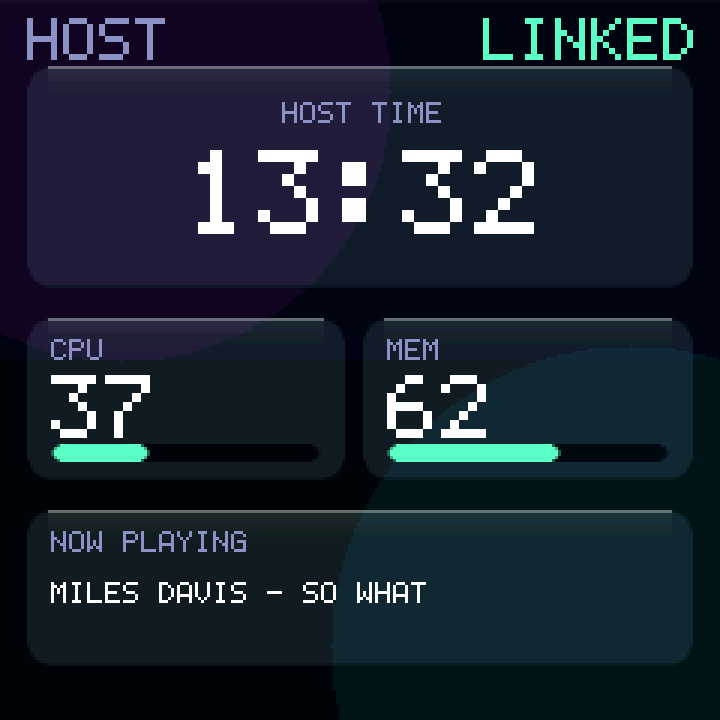
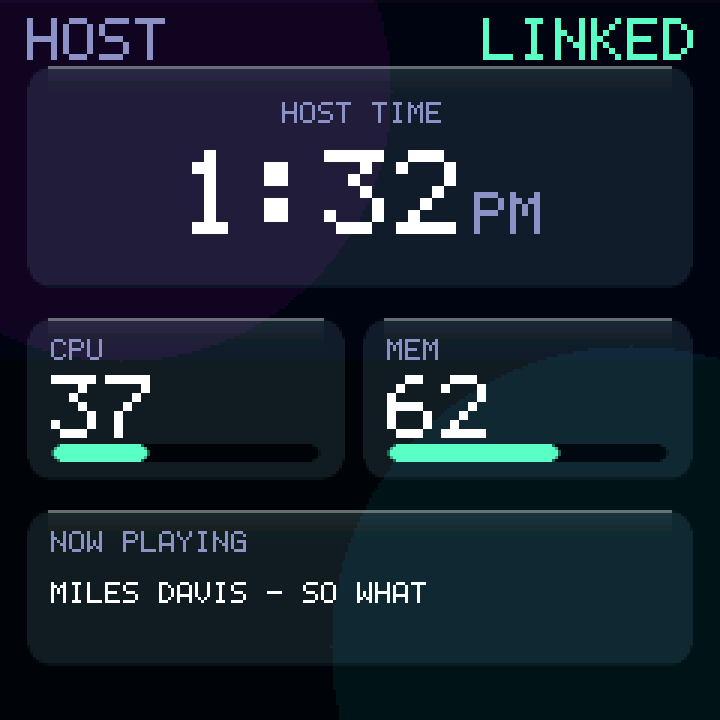
feat: 12-hour host clock with AM/PM, and a companion that needs no installs
The clock was 24 hour and not negotiable. It is 12 hour with AM or PM now,
which is what most desk clocks show, and CONFIG_NEXUS_HOST_CLOCK_24H switches
back. Drawing only: the companion sends seconds since local midnight either
way, so the format changes with no companion change and nothing to reflash on
the host.

The numerals stay NEXUS_TXT_BIG and the suffix is body size on their baseline.
At the same size AM/PM would be as loud as the hour, which is the wrong way
round - you read the time and glance at which half of the day it is. Padding
follows the face: zero-padded on 24 hour so the colon never moves, unpadded on
12 hour, because "01:32 PM" is not what a clock says.

Midnight and noon read as 12, not 0. That is the bug every 12 hour clock ships
once, so the test pins 00:00, 00:01, 11:59, 12:00, 13:32 and 23:59 in both
formats.

Also adds a PowerShell companion beside the Python one. The machine this was
developed against had neither pyserial nor psutil, and Windows can read CPU,
memory and the clock natively - a companion you have to install things for is
a companion you run once. It finds the dongle by ZMK's USB id, writes to every
NEXUS serial interface (one is the host link, the other is Studio's and
ignores what it cannot parse), and says X on the way out so the screen drops
to dashes rather than keeping numbers that stopped being true.

Now-playing is deliberately empty there rather than guessed: Windows has no
[…]

diff --git a/tests/host/test_host_link.py b/tests/host/test_host_link.py
@@ -148,6 +148,47 @@ def main():
        "the screen refreshes at NORMAL - IDLE's one-second coalesce would "
        'make a ticking clock look stuck')
 
+    print('\nThe clock')
+    kc = read('Kconfig').split('config NEXUS_HOST_CLOCK_24H')[1]
+    kc = kc.split('\nconfig ')[0]
+    ok('default n' in kc, '12 hour with AM/PM is the default, 24 hour is opt in')
+    clock = s.split('static void draw_clock')[1].split('\n}\n')[0]
+    ok('IS_ENABLED(CONFIG_NEXUS_HOST_CLOCK_24H)' in clock,
+       'and the format is a build option, not a hard-coded one')
+
+    def face(sec, h24):
+        """Mirrors draw_clock(): the numerals, and the suffix or None."""
+        hour, minute = sec // 3600, (sec % 3600) // 60
+        if h24:
+            return '%02d:%02d' % (hour, minute), None
+        suffix = 'AM' if hour < 12 else 'PM'
+        hour %= 12
+        return '%d:%02d' % (hour or 12, minute), suffix
+
+    for sec, want12, want24 in ((0, ('12:00', 'AM'), ('00:00', None)),
+                                (60, ('12:01', 'AM'), ('00:01', None)),
+                                (11 * 3600 + 59 * 60, ('11:59', 'AM'),
+                                 ('11:59', None)),
+                                (12 * 3600, ('12:00', 'PM'),
+                                 ('12:00', None)),
+                                (13 * 3600 + 32 * 60, ('1:32', 'PM'),
+                                 ('13:32', None)),
+                                (23 * 3600 + 59 * 60, ('11:59', 'PM'),
+                                 ('23:59', None))):
+        got = face(sec, False)
+        ok(got == want12, '%5ds -> %s %s' % (sec, got[0], got[1]))
+        ok(face(sec, True) == want24, '%5ds -> %s in 24 hour'
+           % (sec, want24[0]))
+
+    ok('hour = 12U' in clock,
+       'midnight and noon read as 12, never as 0 - the bug every 12 hour '
+       'clock ships once')
+    ok('suffix ? 0 : 2' in clock,
+       'padded on a 24 hour face so the colon never moves, unpadded on a 12 '
+       'hour one')
+    ok('NEXUS_TXT_BODY' in clock and 'gfx_text_h(NEXUS_TXT_BIG)' in clock,
+       'AM/PM is drawn smaller, on the numerals\' baseline')
+
     print('\nLayout fits the panel')
     K = {k: int(v) for k, v in
          re.findall(r'^#define (\w+_[YH]) (\d+)', s, re.M)}

diff --git a/src/ui/host_screen.c b/src/ui/host_screen.c
@@ -18,6 +18,7 @@
 #include <nexus/screen.h>
 #include <nexus/theme.h>
 #include <nexus/widgets.h>
+#include <zephyr/kernel.h>
 
 #include "../nexus_priv.h"
 
@@ -46,22 +47,51 @@ static void draw_clock(void)
 	}
 
 	/*
-	 * HH:MM as one string, padded, so the colon never moves. Seconds are
-	 * deliberately absent: they would repaint this card once a second
-	 * forever, which is the one thing a screen that sits idle must not do.
+	 * Seconds are deliberately absent: they would repaint this card once a
+	 * second forever, which is the one thing a screen that sits idle on a
+	 * desk must not do.
 	 */
+	uint32_t hour = sec / 3600U;
+	uint32_t min = (sec % 3600U) / 60U;
+	const char *suffix = NULL;
 	int n = 0;
 
-	gfx_utoa(sec / 3600U, buf, sizeof(buf), 2);
+	if (!IS_ENABLED(CONFIG_NEXUS_HOST_CLOCK_24H)) {
+		suffix = hour < 12U ? "AM" : "PM";
+		hour %= 12U;
+		if (hour == 0U) {
+			hour = 12U;   /* midnight and noon are 12, not 0 */
+		}
+	}
+
+	/* Padded on a 24 hour clock so the colon never moves; unpadded on a 12
+	 * hour one, because "01:32 PM" is not what a clock face says. */
+	gfx_utoa(hour, buf, sizeof(buf), suffix ? 0 : 2);
 	while (buf[n]) {
 		n++;
 	}
 	buf[n++] = ':';
-	gfx_utoa((sec % 3600U) / 60U, &buf[n], (int)sizeof(buf) - n, 2);
+	gfx_utoa(min, &buf[n], (int)sizeof(buf) - n, 2);
 
 	nexus_draw_caption_c(GFX_W / 2, CLOCK_Y + 12, "HOST TIME");
-	gfx_text_c(GFX_W / 2, CLOCK_Y + 28, buf, NEXUS_TXT_BIG, t->value,
-		   GFX_OPAQUE);
+
+	/*
+	 * The numerals big, AM/PM small beside them and sitting on their
+	 * baseline, the whole group centred. At NEXUS_TXT_BIG the suffix would
+	 * be as loud as the hour, which is the wrong way round - you read the
+	 * time, you glance at which half of the day it is.
+	 */
+	int tw = gfx_text_w(buf, NEXUS_TXT_BIG);
+	int sw = suffix ? gfx_text_w(suffix, NEXUS_TXT_BODY) + 6 : 0;
+	int x = GFX_W / 2 - (tw + sw) / 2;
+
+	gfx_text(x, CLOCK_Y + 28, buf, NEXUS_TXT_BIG, t->value, GFX_OPAQUE);
+	if (suffix) {
+		gfx_text(x + tw + 6,
+			 CLOCK_Y + 28 + gfx_text_h(NEXUS_TXT_BIG) -
+				 gfx_text_h(NEXUS_TXT_BODY),
+			 suffix, NEXUS_TXT_BODY, t->caption, GFX_OPAQUE);
+	}
 }
 
 static void draw_meter(int x, int w, const char *label, uint8_t pct)

diff --git a/scripts/render_ui.py b/scripts/render_ui.py
@@ -662,7 +662,7 @@ def host_meter(cv, t, x, w, label, pct):
             t['warning'] if pct >= 80 else t['accent'])
 
 
-def host(cv, t, link=True, clock='13:32', cpu=37, mem=62,
+def host(cv, t, link=True, clock='1:32', suffix='PM', cpu=37, mem=62,
          np='Miles Davis - So What'):
     """The HOST screen, with a companion connected. Mirrors host_screen.c."""
     u, K = UI(cv, t), HOST
@@ -678,7 +678,15 @@ def host(cv, t, link=True, clock='13:32', cpu=37, mem=62,
         cv.text_c(W // 2, K['CLOCK_Y'] + 36, '--:--', BIG, t['muted'])
     else:
         u.caption_c(W // 2, K['CLOCK_Y'] + 12, 'HOST TIME')
-        cv.text_c(W // 2, K['CLOCK_Y'] + 28, clock, BIG, t['value'])
+        # Numerals big, AM/PM small on their baseline, group centred.
+        tw = text_w(clock, BIG)
+        sw = text_w(suffix, BODY) + 6 if suffix else 0
+        x = W // 2 - (tw + sw) // 2
+        cv.text(x, K['CLOCK_Y'] + 28, clock, BIG, t['value'])
+        if suffix:
+            cv.text(x + tw + 6,
+                    K['CLOCK_Y'] + 28 + text_h(BIG) - text_h(BODY),
+                    suffix, BODY, t['caption'])
 
     host_meter(cv, t, PAD, 106, 'CPU', cpu)
     host_meter(cv, t, PAD + 112, 110, 'MEM', mem)
@@ -1232,7 +1240,8 @@ def main():
         ('about', lambda cv: about(cv, nx)),
         ('host', lambda cv: host(cv, nx)),
         ('host-nolink', lambda cv: host(cv, nx, link=False, clock=None,
-                                        cpu=None, mem=None, np='')),
+                                        suffix=None, cpu=None, mem=None,
+                                        np='')),
         ('splash', lambda cv: splash(cv, nx)),
     ]
     for name, fn in shots:

diff --git a/docs/configuration.md b/docs/configuration.md
@@ -28,6 +28,7 @@ string, and CI fails the build if one appears (Requirement B).
 | `CONFIG_NEXUS_UI_REFRESH_NORMAL_MS` | `200` | Status dashboard. |
 | `CONFIG_NEXUS_UI_REFRESH_IDLE_MS` | `1000` | Static screens. |
 | `CONFIG_NEXUS_HOST_LINK` | `n` | A companion on your PC pushes the time, CPU, memory and now-playing down a second USB serial, shown on the HOST screen. Needs a devicetree node you add yourself -- see [host-link.md](host-link.md). |
+| `CONFIG_NEXUS_HOST_CLOCK_24H` | `n` | Draw the host clock as 14:32 rather than 2:32 PM. Drawing only -- the companion sends the same thing either way. |
 | `CONFIG_NEXUS_HOST_STALE_S` | `5` | Treat host data as stale after N silent seconds, and go back to dashes. |
 | `CONFIG_NEXUS_BACKLIGHT_TIMEOUT_S` | `0` | Blank the display after N idle seconds. `0` disables. Idle is ZMK's activity state leaving ACTIVE, so typing on either half counts. Never fires during a game, and any action wakes it. Works on every wiring, but what it can do depends on the backlight -- see [hardware.md](hardware.md#backlight). |
 

diff --git a/docs/host-link.md b/docs/host-link.md
@@ -100,6 +100,11 @@ would rather show you nothing than something that stopped being true.
 timezone database and no business having one; your machine already knows what
 the clock on its own wall says.
 
+The dongle draws it as **12 hour with AM or PM** by default, which is what most
+desk clocks show. `CONFIG_NEXUS_HOST_CLOCK_24H=y` switches to 14:32. That is
+only how it is drawn -- the companion sends the same seconds-since-midnight
+either way, so changing it needs nothing on the host.
+
 Between updates the dongle counts forward with its kernel uptime, which drifts.
 The companion resends `T` every minute, so the drift never accumulates past
 that. Seconds are not displayed, on purpose: a seconds digit would repaint that
